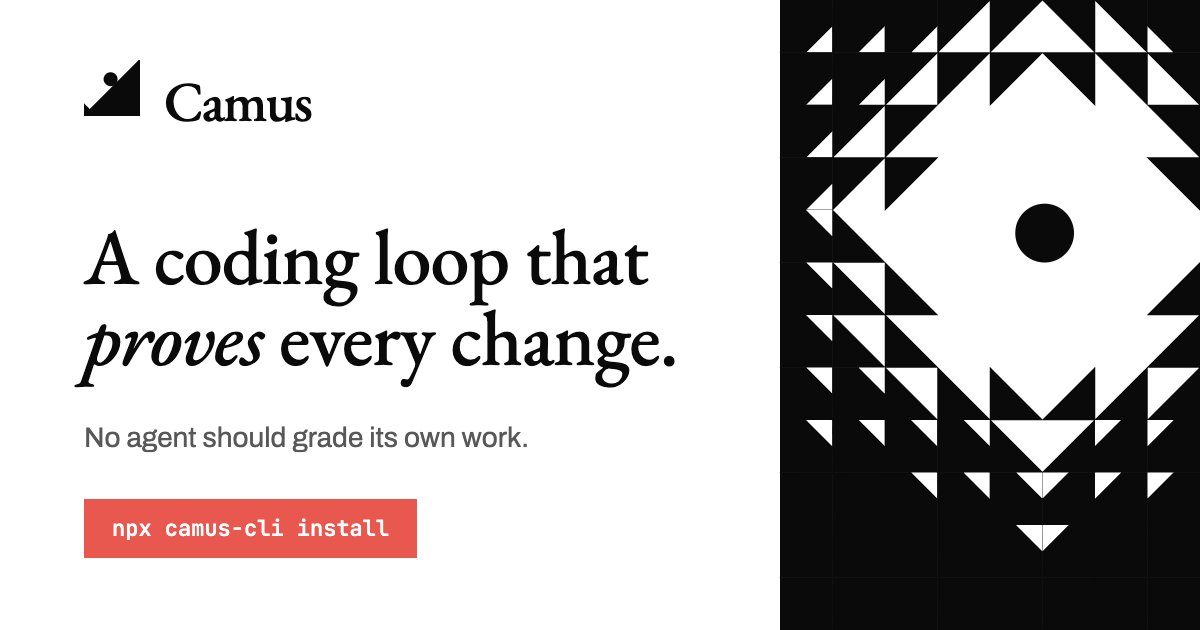
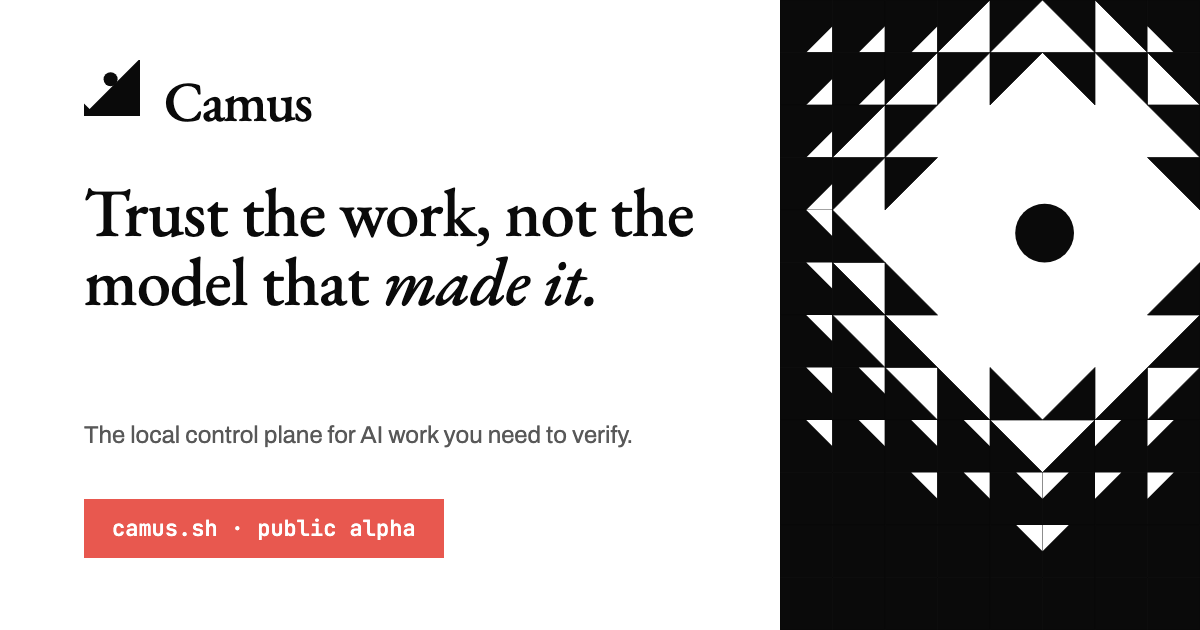
ux: shorten the public path to first proof
Lead GitHub and npm-facing docs with the product contract and a provider-free canary, clarify advisory versus admitted paths, and make Flexible Build print the run ID needed for inspection. Refresh public metadata and the social card without changing model standing.

diff --git a/apps/web/og/og-card.html b/apps/web/og/og-card.html
@@ -45,8 +45,8 @@
   }
 
   .headline {
-    position: absolute; top: 216px; left: 0; width: 660px;
-    font-size: 78px; font-weight: 500; line-height: 1.04;
+    position: absolute; top: 178px; left: 0; width: 660px;
+    font-size: 68px; font-weight: 500; line-height: 1.02;
     color: var(--ink); letter-spacing: -0.01em;
   }
   .headline em { font-style: italic; font-weight: 500; }
@@ -54,7 +54,7 @@
   .sub {
     position: absolute; top: 422px; left: 0;
     font-family: 'Archivo', 'Helvetica Neue', sans-serif;
-    font-weight: 400; font-size: 28px;
+    font-weight: 400; font-size: 24px;
     color: var(--muted);
     white-space: nowrap;
   }
@@ -187,9 +187,9 @@
       </svg>
       <span class="wordmark">Camus</span>
     </div>
-    <div class="headline">A coding loop that <em>proves</em> every change.</div>
-    <div class="sub">No agent should grade its own work.</div>
-    <div class="cta">npx camus-cli install</div>
+    <div class="headline">Trust the work, not the model that <em>made it.</em></div>
+    <div class="sub">The local control plane for AI work you need to verify.</div>
+    <div class="cta">camus.sh · public alpha</div>
   </div>
   </div>
 </body>

diff --git a/QUICKSTART.md b/QUICKSTART.md
@@ -11,18 +11,67 @@ honest receipt around AI-made work. Choose the smallest surface that fits the jo
 Camus is public-alpha software. Use it only on repositories and test commands you trust,
 never as root. Camus does not push code or open a pull request for you.
 
+## Prove the local gate in 60 seconds
+
+With Node 18.17+, Python 3, and Git installed, run the model-free, provider-free
+canary. It creates a throwaway repository, proves a known-red check fails by name,
+then proves a known-green check is bound to its exact commit:
+
+```bash
+npx camus-cli@latest canary
+```
+
+No model authentication or global Camus installation is required for this first check.
+`camus canary: PASS (red -> green)` is the expected result.
+
 ## Path A: code
 
 ### Flexible maker and reviewer (experimental)
 
 Install `camus-cli@latest`. `camus models` lists the same maker and reviewer catalog
-as Studio; configure and qualify external roles in Studio Settings first. Select
-both independently with `camus build --maker <backend>:<model> --reviewer <backend>:<model>`
+as Studio. Configure external roles in Studio Settings or with `camus build --setup`,
+then qualify the exact role with explicit provider-call consent. Select both roles
+independently with `camus build --maker <backend>:<model> --reviewer <backend>:<model>`
 and supply `--task`, `--contract`, and optionally your trusted `--verify` command.
 In the browser choose **Build → Flexible Build**. Both dropdowns apply.
 Reversed and same-model choices are allowed, but this path always requires human
-acceptance and never auto-lands. Missing verification means untested; it has no
-automatic resume. See the [coding-seat guide](docs/INDEPENDENT-CODE-SEATS.md).
+acceptance and never auto-lands. Missing verification means untested. Continuation
+is never unattended: `--status` and provider-free `--inspect` are read-only, while
+an explicit `--resume` retains the frozen pair, contract, verifier, and accumulated
+usage. See the [coding-seat guide](docs/INDEPENDENT-CODE-SEATS.md).
+
+For one bounded candidate, first enter a clean, committed repository and confirm
+the model IDs available on your machine. Authenticate only the backends you select.
+For the example below, install and sign in to Claude Code and Codex CLI first.
+Claude uses subscription quota; Codex uses ChatGPT quota or API billing according
+to its active authentication. The listed limits are Camus accounting and action
+ceilings, not provider-enforced dollar limits.
+
+```bash
+cd /path/to/your/clean-repo
+npx camus-cli@latest models
+
+npx camus-cli@latest build --repo . \
+  --task "Fix the bounded regression and add focused coverage." \
+  --contract "The focused tests pass and existing behavior remains unchanged." \
+  --maker claude:sonnet \
+  --reviewer codex:gpt-5.6-luna \
+  --verify "npm test" \
+  --verify-repeatable \
+  --max-calls 8 \
+  --max-steps 6 \
+  --max-actions 16 \
+  --max-repairs 1 \
+  --max-retries 0 \
+  --max-tokens 200000
+```
+
+Use those exact model IDs only when `camus models` lists them. A successful Flexible
+Build intentionally reports `needs_decision`, completion
+`candidate_ready_for_acceptance`, and exit code `2`. That is the human checkpoint,
+not a failed run. Camus prints the candidate worktree and receipt; use
+`camus build --inspect <run-id>` and Git to inspect them before deciding whether to
+apply the change. This path never commits, merges, pushes, or publishes for you.
 
 ### Native proof gate
 
@@ -31,18 +80,27 @@ independent reviewer. You can configure the Claude model, Codex model, review ef
 posture, and round cap; the cross-vendor role assignment remains fixed for trusted code
 standing.
 
-### 1. Install once
+### 1. Install the CLI and selected backends
 
-Requirements: Node 18+, Python 3, and Git. Claude Code and Codex CLI sign-in are
+Requirements: Node 18.17+, Python 3, and Git. Claude Code and Codex CLI sign-in are
 required only for seats or proof-gate mode that use them; hosted seats use their
 configured environment credential and explicit qualification.
 
 ```bash
 npm install -g camus-cli@latest
+camus canary
+claude auth status
 codex login
+```
+
+For the admitted Claude → Codex proof gate, install and sign in to both CLIs.
+Flexible Build needs only its selected backends and their authentication. It never
+needs `camus install`. Only install the frozen `/camus-*` compatibility workflows
+when you plan to use them inside Claude Code:
+
+```bash
 camus install
 camus check
-camus canary
 ```
 
 `camus canary` is local and model-free. To exercise the reviewer too, run one small
@@ -243,8 +301,10 @@ camus eval
 - **`done_with_findings`:** a bounded final repair passed deterministic verification but
   was not re-reviewed. Inspect the preserved findings and claimed resolutions.
 - **`needs_human`:** the task contains a decision the owner must make.
-- **`needs_decision`:** deterministic verification may be green, but review did not
-  converge. Accept or refine deliberately.
+- **`needs_decision`:** a human checkpoint. On Flexible Build this is the expected
+  terminal for an approved advisory candidate; elsewhere it can mean review did not
+  converge. Inspect `completion`, the recorded reason or question, candidate, and
+  receipt before accepting or refining deliberately.
 - **`infra_error`:** repair the environment or custody problem and resume with the same
   run identity. Do not finish the implementation manually.
 - **`verify_failed`:** the candidate is not shippable.

diff --git a/README.md b/README.md
@@ -1,5 +1,43 @@
 # Camus
 
+[![CI](https://github.com/mateodaza/camus/actions/workflows/ci.yml/badge.svg)](https://github.com/mateodaza/camus/actions/workflows/ci.yml)
+[![npm](https://img.shields.io/npm/v/camus-cli.svg)](https://www.npmjs.com/package/camus-cli)
+[![license: MIT](https://img.shields.io/badge/license-MIT-111827.svg)](LICENSE)
+
+**Trust the work, not the model that made it.**
+
+Camus is an open-source local control plane for AI work you need to verify. A
+model or coding agent makes the work, a separate reviewer challenges the exact
+candidate, configured checks arbitrate what they can, and you decide what ships.
+The deterministic kernel owns state, budgets, Git custody, recovery, and evidence
+so changing models does not change what “trusted” means.
+
+Start with a model-free, provider-free check on a throwaway repository:
+
+```bash
+npx camus-cli@latest canary
+```
+
+Then choose the path that fits the job:
+
+| Path | Roles | Standing | Result |
+| --- | --- | --- | --- |
+| **Flexible Build** | Choose available maker and reviewer seats separately | Experimental and advisory | You inspect and accept; Camus never auto-lands it |
+| **Native proof gate** | Claude maker → Codex reviewer | Admitted code gate | Verified local commit; Camus never pushes |
+| **Loop Studio** | Choose available seats; configurable external seats qualify per exact role | Standing is shown per exact path | Local artifact and evidence pack; publication is opt-in |
+
+[Five-minute quickstart](QUICKSTART.md) · [Open Loop Studio](https://camus.sh/studio/) ·
+[See a documented dogfood case](docs/RECOMMENDED-MODEL-SETUP.md) ·
+[Propose a bounded design-partner pilot](https://github.com/mateodaza/camus/issues/new?template=design-partner.yml)
+
+> **Public alpha.** Orchestration, worktrees, run state, and receipts stay local.
+> A selected hosted provider still receives the context you send it. Credentials
+> remain local and go only to that endpoint. Verification executes commands from
+> repositories you trust; Camus is not an OS sandbox and should never run as root.
+
+<details>
+<summary><strong>What ships in 0.4.16 and how current evidence is bounded</strong></summary>
+
 **Makes it work. Knows when to stop.**
 
 New in 0.4.16: Flexible Build now has a stricter structured maker protocol,
@@ -186,9 +224,11 @@ workflow activation lane now also requires the dispatcher-issued exact `admit1:`
 accepted reviewer binding. See the
 [Slice E status](docs/SLICE-E-STATUS.md) and [Slice G status](docs/SLICE-G-STATUS.md).
 
+</details>
+
 ## Makes it work
 
-- **A competing model reviews every change.** Codex judges, a thin runner relays its
+- **On the admitted proof gate, a competing model reviews every change.** Codex judges, a thin runner relays its
   JSON verbatim, and every round leaves a verdict file plus a full event-stream audit
   dir under `~/.camus/reviews/`.
 - **Your own tests are the last word.** The verifier auto-detects the stack or runs

diff --git a/packages/cli/README.md b/packages/cli/README.md
@@ -1,6 +1,34 @@
 # Camus
 
-**A local control plane for bounded AI-made code.**
+[![CI](https://github.com/mateodaza/camus/actions/workflows/ci.yml/badge.svg)](https://github.com/mateodaza/camus/actions/workflows/ci.yml)
+[![npm](https://img.shields.io/npm/v/camus-cli.svg)](https://www.npmjs.com/package/camus-cli)
+[![license: MIT](https://img.shields.io/badge/license-MIT-111827.svg)](https://github.com/mateodaza/camus/blob/main/LICENSE)
+
+**Trust the work, not the model that made it.**
+
+Camus is an open-source local control plane for AI-made code that must be
+verified. One model or coding agent makes the change, another challenges the
+exact candidate, deterministic checks arbitrate what they can, and you decide
+what ships.
+
+Prove the local gate first—model-free, provider-free, on a throwaway repository:
+
+```bash
+npx camus-cli@latest canary
+```
+
+Then choose **Flexible Build** for separately selected advisory maker/reviewer
+seats, or the admitted **Claude → Codex proof gate** for a verified local commit.
+Camus never pushes. Follow the
+[five-minute quickstart](https://github.com/mateodaza/camus/blob/main/QUICKSTART.md)
+for the first real candidate, model setup, and honest terminal states.
+
+> **Public alpha.** Run Camus only on repositories and verification commands you
+> trust, never as root. A selected hosted provider receives the context you send
+> it; configured API credentials remain local and go only to that endpoint.
+
+<details>
+<summary><strong>Current release: 0.4.16</strong></summary>
 
 **New in 0.4.16:** `camus build --inspect RUN_ID [--json]` is
 provider-free and read-only. It authenticates the shared CLI/Studio checkpoint,
@@ -117,6 +145,10 @@ Full design: [`CAMUS-SPEC.md`](https://github.com/mateodaza/camus/blob/main/CAMU
 > credential-shaped diagnostics. The Slice G offline harness can append content-addressed
 > attempts and derive conservative admission statistics, but it cannot call providers or enable
 > a backend. See `skills/camus/BENCHMARK.md`.
+
+</details>
+
+## How the admitted proof gate works
 
 ```
 plan → implement → [ Codex review ↔ fix ]* → commit gate → dep prep → verify
